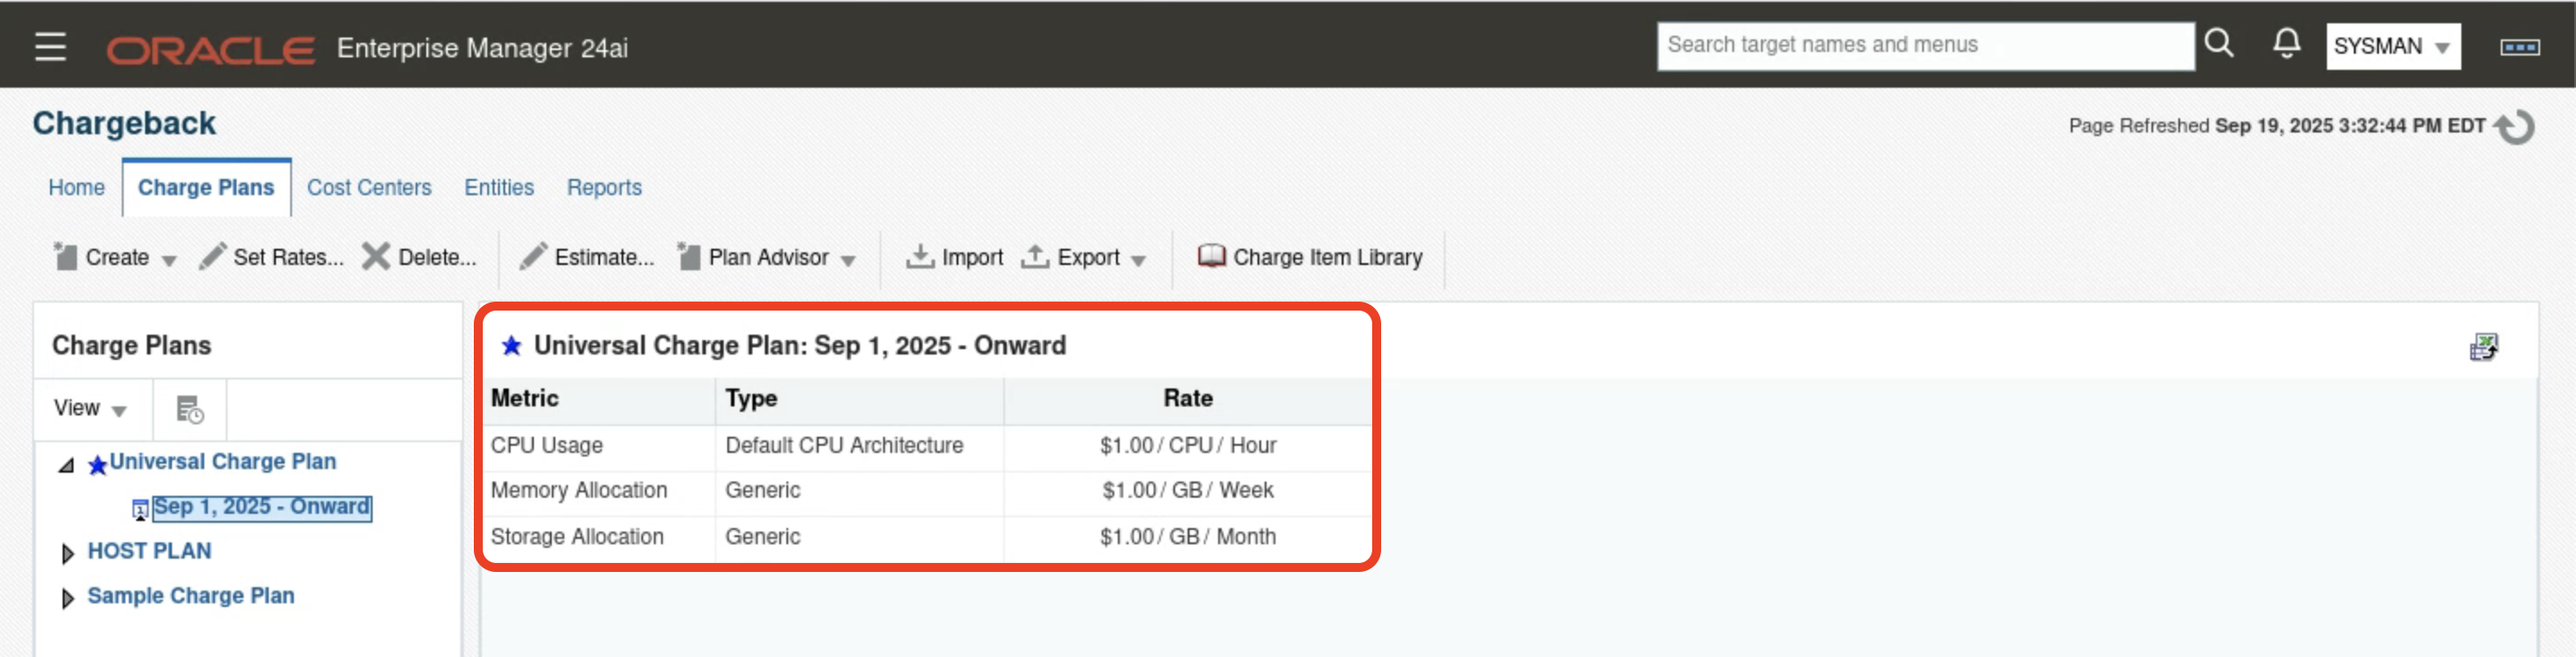
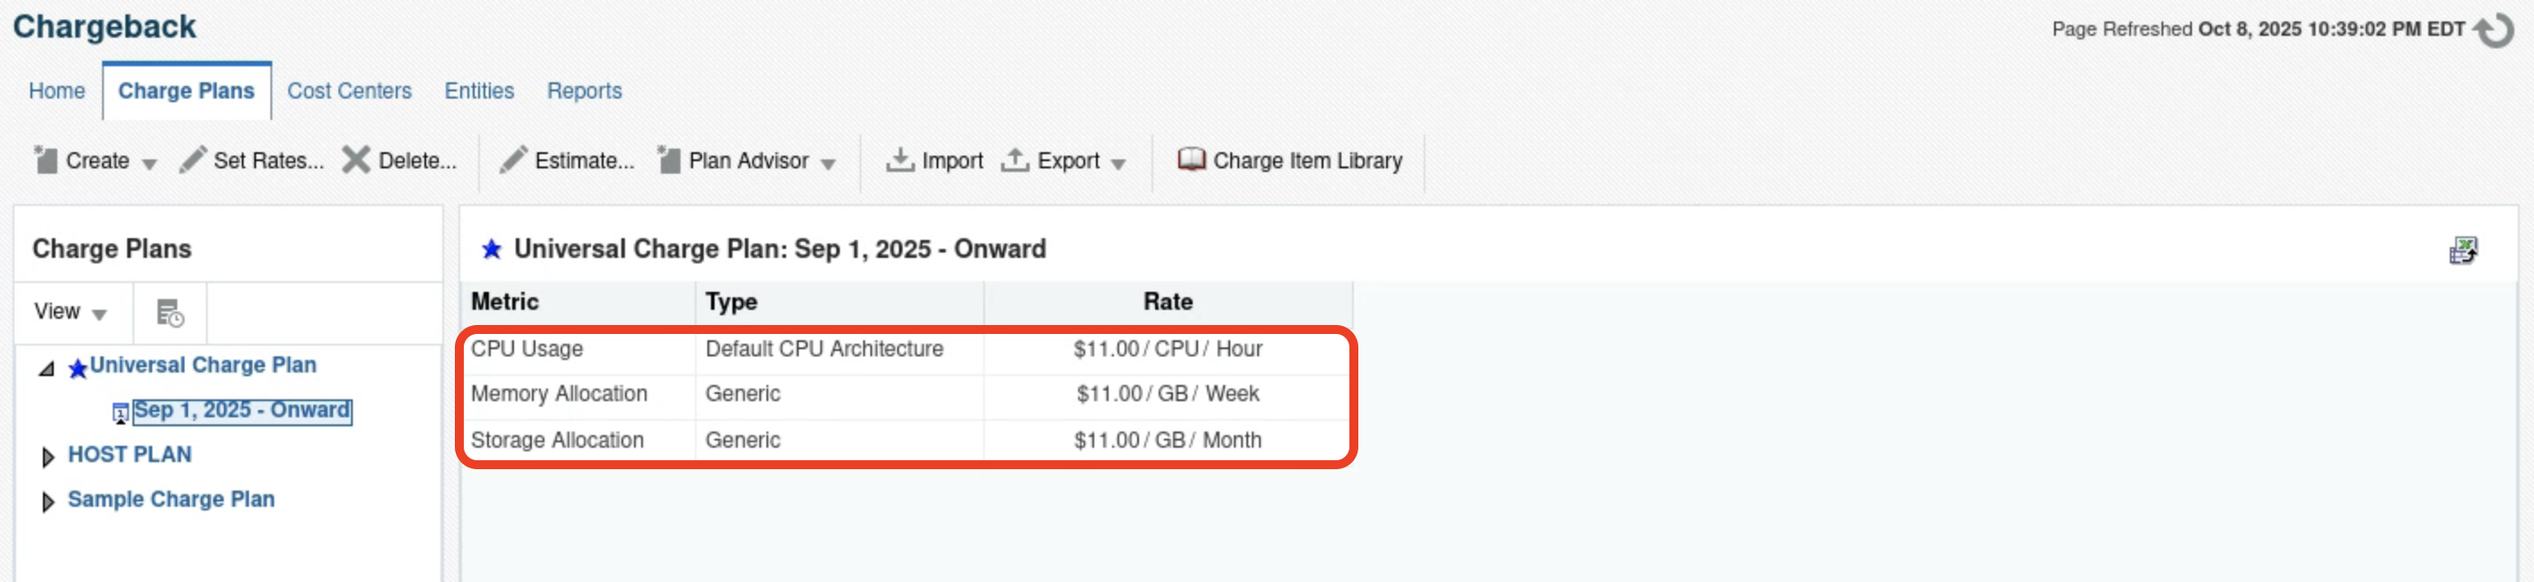
Exadata Management Pack - Part 11
Exadata Management Pack - Part 11

diff --git a/enterprise-manager/em24ai/em-exadata-mgmt/intro/intro-exdata-mgmt-overview.md b/enterprise-manager/em24ai/em-exadata-mgmt/intro/intro-exdata-mgmt-overview.md
@@ -15,7 +15,6 @@ In this workshop, you will learn how to use:
 - Exadata Fleet Dashboards
 - Database Impact Advisor
 - Chargeback Administration
-- I/O Resource Management Advisor
 - Engineered System Autonomous Health Framework Management
 
 ## Summary
@@ -37,11 +36,10 @@ Exadata administrators managing large on-premises and cloud-based Exadata fleets
 
   | **Step No.** | **Feature**                                   | **Approx. Time** | **Details**                                                                                                                                                                                                                    | **Value proposition**                                                                                                                                                                                                                                                                                                                                                                                                                                                                                                                                                      |
   |--------|-----------------------------------------------|------------------|--------------------------------------------------------------------------------------------------------------------------------------------------------------------------------------------------------------------------------|-----------------------------------------------------------------------------------------------------------------------------------------------------------------------------------------------------------------------------------------------------------------------------------------------------------------------------------------------------------------------------------------------------------------------------------------------------------------------------------------------------------------------------------------------------------------------------|
-  | **1**  | Exadata Fleet Dashboards                              | 20 minutes       | Explore Oracle-defined dashboards that distill Exadata component hardware and software metric data for individual Exadata (on-premises and Cloud-based) and Recovery Appliance systems into integrated, detailed fleet-level visualizations.                         | Get a high-level overview of resource usage across the fleet, Identify which Exadata systems need attention, Analyze usage for components within an Exadata system, Analyze metric trends                                                                                                                                                                                                                                             |
+  | **1**  | Exadata Fleet Dashboards                              | 15 minutes       | Explore Oracle-defined dashboards that distill Exadata component hardware and software metric data for individual Exadata (on-premises and Cloud-based) and Recovery Appliance systems into integrated, detailed fleet-level visualizations.                         | Get a high-level overview of resource usage across the fleet, Identify which Exadata systems need attention, Analyze usage for components within an Exadata system, Analyze metric trends                                                                                                                                                                                                                                             |
   | **2**  | Database Impact Advisor                                | 25 minutes       | Learn how to use Database Impact Advisor to identify noisy-nieghbors                                                                                                                                              | Database Impact Advisor can be run against an individual Exadata system to perform system-wide database CPU usage noisy-neighbor analysis in order to identify databases whose performance is potentially impacted by other databases or other operating system processes.                                                                                                                                                                                                                                                                                                  |
   **3**  | Chargeback Administration                             | 20 minutes       | Explore how chargeback helps to allocate and track costs of IT resources.                                                 | Enterprise Manager Chargeback enables transparent accountability by metering resource usage, assigning costs, and providing detailed consumption reports to IT and resource consumers.                                                                                                                                          
-  | **4**  | I/O Resource Management Advisor                         | 15 minutes       | Explore Enterprise Manager I/O Resource Management Advisor to analyze Exadata I/O utilization.                                                                                                           | I/O Resource Management Advisor delivers actionable insights to optimize Exadata system performance by analyzing I/O utilization, identifying bandwidth needs, and managing resource consumption effectively                                                                                                                                                                                                                                                                                                                                 |
-  | **5**  | Engineered System Autonomous Health Framework Administration                          | 15 minutes       | Explore how to monitor and manage Oracle Autonomous Health Framework and Oracle Exachk across the Engineered System fleet. | Engineered System AHF Administration empowers Exadata and Recovery Appliance administrators to centrally monitor, manage, and automate AHF and Exachk operations across the fleet, ensuring compliance, minimizing downtime, and maximizing performance..                                                                                                                                                                                                                                                                                                                                                                                                                                                      |
+  | **4**  | Engineered System Autonomous Health Framework Administration                          | 15 minutes       | Explore how to monitor and manage Oracle Autonomous Health Framework and Oracle Exachk across the Engineered System fleet. | Engineered System AHF Administration empowers Exadata and Recovery Appliance administrators to centrally monitor, manage, and automate AHF and Exachk operations across the fleet, ensuring compliance, minimizing downtime, and maximizing performance..                                                                                                                                                                                                                                                                                                                                                                                                                                                      |
 
 ## Learn More
 - [Advanced Management and Monitoring with Exadata Management Pack](https://docs.oracle.com/en/enterprise-manager/cloud-control/enterprise-manager-cloud-control/24.1/emxad/exadata-management-pack-features.html)

diff --git a/enterprise-manager/em24ai/em-exadata-mgmt/chargeback/chargeback.md b/enterprise-manager/em24ai/em-exadata-mgmt/chargeback/chargeback.md
@@ -11,6 +11,8 @@ To enable users to configure and implement chargeback for their Exadata Systems 
 - Learn how to create a charge plan, cost center and associate a target to a specific charge plan
 - Analyze reports detailing the consumption and associated charges
 
+*Estimated Time*: 20 minutes
+
 ## Task 1: Launch Chargeback Home page
 
 1. Log into Enterprise Manager using the credentials provided in the portal
@@ -55,9 +57,11 @@ To enable users to configure and implement chargeback for their Exadata Systems 
 
     ![Charge Plan Tab](images/chargeplantab.png " ")
     
-    We are using the universal charge plan, which allows us to set rates for CPU, memory, and storage. An extended plan can also be used to provide more flexibility in defining rates.
+    **Universal charge plan** establishes rates for three basic metrics (CPU, memory, and storage)
     
-    In this example, the rate is set to $1:
+    **Extended charge plan** enhances the universal plan to include entity-specific metrics
+    
+    In this environment, the rate is set to $11 in the universal plan:
     - CPU is charged per hour
     - Memory is charged per GB/week
     - Storage is charged per GB/month
@@ -65,6 +69,15 @@ To enable users to configure and implement chargeback for their Exadata Systems 
     Both the rate and the time interval can be modified as needed.
 
     ![Charge Plan Details](images/chargeplandetails.png " ")
+
+    We have created **extended charge plan for the Host**, and similarly extended plans can be added to include entity-specific metrics, enhancing the universal plan for more precise charge calculations.
+
+    ![Charge Plan Details](images/chargeplandetails2.png " ")
+
+    To view entity-specific metrics click on the **Charge Item Library**
+    ![Charge Plan Details](images/chargeplandetails3.png " ")
+
+    ![Charge Plan Details](images/chargeplandetails4.png " ")
 
 2. Click on the **Cost Centers** tab 
     ![Cost Centers Tab](images/costcenterstab.png " ")
@@ -83,9 +96,13 @@ To enable users to configure and implement chargeback for their Exadata Systems 
     ![Expanded View](images/expandedview.png " ")
     
     The table shows how much each cost center is charged for a specific month, based on the rates defined in the universal charge plan.
-    *In this environment, chargeback was enabled starting in September. Therefore, you can view charges only for the month of September.*
+    *In this environment, chargeback was enabled starting in September. So, you can view charges for the current month October and also for the month of September.* as shown below.
 
     ![Expanded View September](images/expandview-month.png " ")
+
+    ![Expanded View September](images/expandview-month2.png " ")
+
+    ![Expanded View September](images/expandview-month3.png " ")
 
 ## Task 3: Add entity by associating a Charge Plan and Cost Center
 
@@ -136,16 +153,24 @@ To enable users to configure and implement chargeback for their Exadata Systems 
     *Since all workshop attendees are using the same Enterprise Manager environment, it is not possible to click Submit. Instead, click Cancel.*
     ![Click Cancel](images/reviewcancel.png " ")
 
+    **Note:**
+
     Metrics for the targets that have been added to Chargeback are collected from the Enterprise Manager repository on a daily schedule. Hence, it may take up to 24 hours before charge data appears for any targets that have been added.
     After the collection job has run, the usage and charge data for configured targets will be available from the Reports tab.
 
 4. Review other tabs in the **Entities** page 
 
-    Select the target **emrep.rsthybrid.oracle.com** and on selection shows the collected data under different tabs within Entities page as explained below 
+    Select any target and on selection shows the collected data under different tabs within Entities page as explained below 
+
+    *Here for the flow we have selected target **emrep.rsthybrid.oracle.com***
     ![Entities Details](images/entitiesdetails.png " ")
 
     - Metered Data (Chart) :  View a times series graph of data metrics for the entity
         ![Metric Chart](images/metricchart.png " ")
+
+        For the selected entity, you can view the collected metrics that are available for chargeback calculations and can be added using the extended plan.
+        ![Metric Chart](images/metricchart2.png " ")
+
 
     - Metered Data (Table) :  View the raw metric data collected
         ![Metric Data](images/metricdata.png " ")

diff --git a/enterprise-manager/em24ai/em-exadata-mgmt/ahfmanagement/ahfmanagement.md b/enterprise-manager/em24ai/em-exadata-mgmt/ahfmanagement/ahfmanagement.md
@@ -17,6 +17,8 @@ Autonomous Health Framework (AHF) is Oracle’s diagnostic and health management
 - Explore how to manage AHF across the fleet
 - Learn how to run Exachk compliance checks across systems
 
+*Estimated Time*: 15 minutes
+
 ## Task 1: Execute AHF Command at Fleet Level
 
 1. Log into Enterprise Manager using the credentials provided in the portal

diff --git a/enterprise-manager/em24ai/em-exadata-mgmt/fleetdashboards/fleetdashboards.md b/enterprise-manager/em24ai/em-exadata-mgmt/fleetdashboards/fleetdashboards.md
@@ -9,7 +9,7 @@ To enable users to efficiently navigate and utilize the Exadata Fleet Dashboards
 - Analyze usage of individual components within an Exadata system
 - Review and analyze metric trends
 
-*Estimated Time*: 20 minutes
+*Estimated Time*: 15 minutes
 
 ## Task 1: Explore Fleet Configuration Dashboard
 
